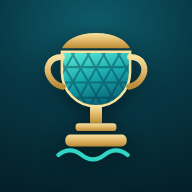
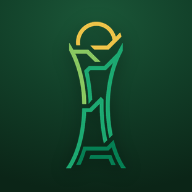
Adopt the official خليجي 27 identity and open predictions immediately
- Identity: the tournament's official trophy mark replaces the drawn
  emblem, and the palette moves to the official deep green + gold
  sampled from the federation's own artwork. New PWA icons, theme
  colour and manifest colours to match.
- Predictions now open as soon as the app is opened and lock at
  kick-off, instead of opening 24 hours before each match.
- Schedule corrected against the official draw graphic: match numbers
  1 and 2 swapped to the official order, semi-finals at 18:00 and
  20:30, and the venues renamed as the organisers write them.
- Best-goalkeeper picker now lists goalkeepers only (25 across the
  eight squads).

Claude-Session: https://claude.ai/code/session_011nCoPk4JwjprTMiBJzpuBJ

diff --git a/gulf27.html b/gulf27.html
@@ -8,7 +8,7 @@
 <meta http-equiv="Expires" content="0">
 <title>دوري توقّعات خليجي 27</title>
 <link rel="manifest" href="manifest-gulf.json">
-<meta name="theme-color" content="#0b7f8c">
+<meta name="theme-color" content="#0e2e1e">
 <meta name="apple-mobile-web-app-capable" content="yes">
 <meta name="mobile-web-app-capable" content="yes">
 <meta name="apple-mobile-web-app-status-bar-style" content="black-translucent">
@@ -26,17 +26,17 @@
 <script src="https://www.gstatic.com/firebasejs/9.23.0/firebase-auth-compat.js"></script>
 <style>
 :root{
-  --bg:#04212a; --surface:#083744; --card:#062e39;
-  --accent1:#0e7f8c; --accent2:#2fd6c6; --accent3:#064a56;
-  --gold:#0e7f8c; --text:#eafcfb; --muted:#86b6bd;
+  --bg:#0e2e1e; --surface:#17402f; --card:#123527;
+  --accent1:#1fa96b; --accent2:#5fe08a; --accent3:#0a2416;
+  --gold:#1fa96b; --text:#eaf7ee; --muted:#8fb79e;
   --line:rgba(255,255,255,.08);
 }
 *{margin:0;padding:0;box-sizing:border-box;-webkit-tap-highlight-color:transparent;}
 html{scroll-behavior:smooth;}
-*{scrollbar-width:thin;scrollbar-color:rgba(23,169,174,.55) transparent;}
+*{scrollbar-width:thin;scrollbar-color:rgba(31,169,107,.55) transparent;}
 ::-webkit-scrollbar{width:8px;height:8px;}
-::-webkit-scrollbar-thumb{background:rgba(23,169,174,.45);border-radius:10px;}
-::-webkit-scrollbar-thumb:hover{background:rgba(23,169,174,.75);}
+::-webkit-scrollbar-thumb{background:rgba(31,169,107,.45);border-radius:10px;}
+::-webkit-scrollbar-thumb:hover{background:rgba(31,169,107,.75);}
 ::-webkit-scrollbar-track{background:transparent;}
 body{font-family:'Tajawal',sans-serif;background:var(--bg);color:var(--text);min-height:100vh;display:flex;flex-direction:column;align-items:center;padding:18px 14px 90px;}
 .screen{display:none;width:100%;max-width:480px;flex-direction:column;align-items:center;gap:14px;}
@@ -45,7 +45,7 @@ body{font-family:'Tajawal',sans-serif;background:var(--bg);color:var(--text);min
 .cb-caa{height:54px;width:auto;}
 .cb-wc{height:64px;width:auto;}
 .cb-gulf{display:block;line-height:0;}
-.cb-gulf svg{height:92px;width:auto;display:block;}
+.cb-gulf img{height:96px;width:auto;display:block;}
 .cb-div{width:2px;height:46px;background:rgba(255,255,255,.28);border-radius:2px;}
 .tagline{font-size:.85rem;color:var(--muted);text-align:center;}
 .subtitle{font-size:1.5rem;font-weight:800;color:#fff;text-align:center;margin-top:16px;line-height:1.2;}
@@ -56,19 +56,19 @@ input.field:focus{border-color:var(--accent2);}
 input.field::placeholder{color:var(--muted);}
 .btn{width:100%;padding:14px;border-radius:13px;border:none;font-family:'Tajawal',sans-serif;font-size:1rem;font-weight:700;cursor:pointer;transition:opacity .2s,transform .1s;}
 .btn:active:not(:disabled){transform:scale(.97);opacity:.9;}
-.btn:disabled{background:#0c3d47!important;color:var(--muted)!important;cursor:default;}
-.btn-green{background:linear-gradient(135deg,#2fd6c6,#064a56);color:#ffffff;}
-.btn-gold{background:linear-gradient(135deg,#0e7f8c,#04333d);color:#ffffff;}
-.btn-grad{background:linear-gradient(135deg,#2fd6c6,#0e7f8c);color:#ffffff;}
+.btn:disabled{background:#123b2a!important;color:var(--muted)!important;cursor:default;}
+.btn-green{background:linear-gradient(135deg,#5fe08a,#0a2416);color:#ffffff;}
+.btn-gold{background:linear-gradient(135deg,#1fa96b,#071b11);color:#ffffff;}
+.btn-grad{background:linear-gradient(135deg,#5fe08a,#1fa96b);color:#ffffff;}
 .err{font-size:.82rem;color:#fca5a5;text-align:center;min-height:18px;}
 .install-btn{width:100%;display:none;background:rgba(255,255,255,.10);color:var(--text);border:1px solid var(--line);border-radius:13px;padding:12px;margin:10px 0;font-family:'Tajawal',sans-serif;font-weight:700;font-size:.95rem;cursor:pointer;}
 .install-btn:hover{background:rgba(255,255,255,.16);}
 
-.setup-banner{width:100%;background:rgba(23,169,174,.08);border:1px solid rgba(23,169,174,.3);border-radius:14px;padding:14px;font-size:.82rem;color:#c9eef2;line-height:1.7;display:none;}
+.setup-banner{width:100%;background:rgba(31,169,107,.08);border:1px solid rgba(31,169,107,.3);border-radius:14px;padding:14px;font-size:.82rem;color:#cceedd;line-height:1.7;display:none;}
 .setup-banner.show{display:block;}
 .setup-banner code{background:rgba(0,0,0,.3);padding:1px 6px;border-radius:6px;font-size:.78rem;}
 
-.tabbar{position:fixed;bottom:0;left:0;right:0;background:linear-gradient(180deg,#0a4653,#03181e);border-top:2px solid #d4af37;box-shadow:0 -10px 30px rgba(0,0,0,.55);display:flex;justify-content:center;gap:4px;padding:8px 10px calc(8px + env(safe-area-inset-bottom));z-index:50;}
+.tabbar{position:fixed;bottom:0;left:0;right:0;background:linear-gradient(180deg,#14472f,#071a10);border-top:2px solid #d4af37;box-shadow:0 -10px 30px rgba(0,0,0,.55);display:flex;justify-content:center;gap:4px;padding:8px 10px calc(8px + env(safe-area-inset-bottom));z-index:50;}
 .tab{flex:1;max-width:150px;background:none;border:none;color:rgba(255,255,255,.7);font-family:'Tajawal',sans-serif;font-size:.78rem;font-weight:700;cursor:pointer;padding:8px 4px;border-radius:12px;display:flex;flex-direction:column;align-items:center;gap:3px;}
 .tab .ico{font-size:1.2rem;}
 .tab.active{color:#fff;background:rgba(212,175,55,.28);}
@@ -87,10 +87,10 @@ input.field::placeholder{color:var(--muted);}
 .section-title{width:100%;font-size:1rem;font-weight:800;color:var(--text);}
 .hint{width:100%;font-size:.76rem;color:var(--muted);line-height:1.7;}
 
-.chips{width:100%;display:flex;flex-wrap:nowrap;gap:8px;overflow-x:auto;padding-bottom:8px;-webkit-overflow-scrolling:touch;scroll-snap-type:x proximity;scrollbar-width:thin;scrollbar-color:rgba(23,169,174,.5) transparent;}
+.chips{width:100%;display:flex;flex-wrap:nowrap;gap:8px;overflow-x:auto;padding-bottom:8px;-webkit-overflow-scrolling:touch;scroll-snap-type:x proximity;scrollbar-width:thin;scrollbar-color:rgba(31,169,107,.5) transparent;}
 .chips::-webkit-scrollbar{height:4px;}
-.chips::-webkit-scrollbar-thumb{background:rgba(23,169,174,.5);border-radius:10px;}
-.chips::-webkit-scrollbar-thumb:hover{background:rgba(23,169,174,.8);}
+.chips::-webkit-scrollbar-thumb{background:rgba(31,169,107,.5);border-radius:10px;}
+.chips::-webkit-scrollbar-thumb:hover{background:rgba(31,169,107,.8);}
 .chips::-webkit-scrollbar-track{background:transparent;}
 .chip{flex:0 0 auto;scroll-snap-align:center;background:var(--surface);border:1px solid var(--line);color:var(--muted);font-family:'Tajawal',sans-serif;font-size:.8rem;font-weight:700;padding:7px 14px;border-radius:20px;cursor:pointer;white-space:nowrap;transition:background .15s,border-color .15s,color .15s;}
 .chip.active{background:var(--accent1);border-color:var(--accent1);color:#fff;}
@@ -114,7 +114,7 @@ img.flag{display:inline-block;width:1.45em;height:.95em;vertical-align:-2px;bord
 .tour-save:disabled{opacity:.5;cursor:default;}
 .sub-tabs{display:flex;gap:6px;width:100%;background:rgba(255,255,255,.04);border:1px solid var(--line);border-radius:12px;padding:4px;margin-bottom:6px;}
 .sub-tab{flex:1;background:none;border:none;color:var(--muted);font-family:'Tajawal',sans-serif;font-weight:700;font-size:.9rem;padding:9px 8px;border-radius:9px;cursor:pointer;}
-.sub-tab.active{background:#17a9ae;color:#fff;}
+.sub-tab.active{background:#1fa96b;color:#fff;}
 .gr-card{background:var(--card);border:1px solid var(--line);border-radius:14px;padding:12px;display:flex;flex-direction:column;gap:8px;}
 .gr-card h4{margin:0;font-size:1rem;font-weight:800;letter-spacing:.4px;color:#fde68a;}
 .gr-tbl td.gr-team img.flag{width:27px;height:18px;object-fit:cover;margin-inline-end:6px;vertical-align:-3px;}
@@ -126,13 +126,13 @@ img.flag{display:inline-block;width:1.45em;height:.95em;vertical-align:-2px;bord
 .gr-tbl td.gr-team{text-align:right;}
 .gr-team{display:flex;align-items:center;gap:6px;font-weight:700;}
 .gr-flag{font-size:1.1rem;}
-.gr-tbl tr.gr-adv td:first-child{box-shadow:inset 3px 0 0 #17a9ae;}
+.gr-tbl tr.gr-adv td:first-child{box-shadow:inset 3px 0 0 #1fa96b;}
 .gr-tbl tr.gr-adv td{background:rgba(34,197,94,.08);}
 .gr-tbl tr.gr-out td:first-child{box-shadow:inset 3px 0 0 #6b7280;}
 .gr-tbl tr.gr-out td{background:rgba(107,114,128,.08);color:var(--muted);}
 .gr-legend{display:flex;gap:14px;font-size:.74rem;color:var(--muted);align-items:center;padding-top:4px;flex-wrap:wrap;}
 .gr-legend span{display:inline-block;width:10px;height:10px;border-radius:3px;margin-inline-end:5px;vertical-align:middle;}
-.gr-legend .lg-adv{background:#17a9ae;}
+.gr-legend .lg-adv{background:#1fa96b;}
 .gr-legend .lg-out{background:#6b7280;}
 .ko-sec{display:flex;flex-direction:column;gap:10px;}
 .ko-sh{font-size:.95rem;font-weight:800;color:#fde68a;padding:4px 2px;border-bottom:1px solid var(--line);}
@@ -142,7 +142,7 @@ img.flag{display:inline-block;width:1.45em;height:.95em;vertical-align:-2px;bord
 .ko-row{display:flex;align-items:stretch;gap:10px;}
 .ko-vs{flex-shrink:0;align-self:center;font-size:.95rem;font-weight:800;color:#fff;background:var(--surface);border:1px solid var(--line);border-radius:10px;padding:6px 10px;min-width:54px;text-align:center;}
 .ko-slot{flex:1;background:var(--surface);border:1px solid var(--line);border-radius:10px;padding:10px;display:flex;flex-direction:column;gap:8px;min-width:0;}
-.ko-slot.resolved{flex-direction:row;align-items:center;justify-content:center;gap:8px;font-weight:800;font-size:.95rem;border-color:rgba(23,169,174,.55);background:rgba(23,169,174,.10);}
+.ko-slot.resolved{flex-direction:row;align-items:center;justify-content:center;gap:8px;font-weight:800;font-size:.95rem;border-color:rgba(31,169,107,.55);background:rgba(31,169,107,.10);}
 .ko-slot.resolved .ko-team{color:#fff;}
 .ko-slot-lbl{font-size:.78rem;font-weight:800;color:#fde68a;text-align:center;}
 .ko-opts{display:flex;flex-wrap:wrap;gap:5px;justify-content:center;}
@@ -170,7 +170,7 @@ img.flag{display:inline-block;width:1.45em;height:.95em;vertical-align:-2px;bord
 .br-team.lose .nm,.br-team.lose .sc{color:var(--muted);}
 .br-team.tba .nm{color:var(--muted);font-weight:600;font-size:.72rem;}
 .br-team.tent .nm{color:#cfe6d4;}
-.br-team.tent .nm::after{content:" ✻";color:#86b6bd;font-size:.66rem;font-weight:600;}
+.br-team.tent .nm::after{content:" ✻";color:#8fb79e;font-size:.66rem;font-weight:600;}
 .br-team.tent img.flag{opacity:.72;}
 .br-third{margin-top:14px;padding:8px;border-radius:10px;background:rgba(255,255,255,.025);border:1px dashed var(--line);display:flex;flex-direction:column;gap:6px;}
 .br-third-h{font-size:.68rem;font-weight:800;color:var(--muted);text-align:center;letter-spacing:.5px;}
@@ -226,13 +226,13 @@ img.flag{display:inline-block;width:1.45em;height:.95em;vertical-align:-2px;bord
 .sc-team{font-size:.78rem;color:var(--muted);}
 .sc-goals{display:flex;align-items:center;gap:4px;font-weight:800;font-size:1.1rem;color:#fde68a;}
 .sc-goals span{font-size:.9rem;}
-.match.live{border-color:rgba(23,169,174,.6);background:rgba(23,169,174,.07);}
+.match.live{border-color:rgba(31,169,107,.6);background:rgba(31,169,107,.07);}
 .match.finished{opacity:.6;}
 .match-head{display:grid;grid-template-columns:1fr auto 1fr;align-items:center;font-size:.72rem;color:var(--muted);gap:8px;}
 .hc-l{justify-self:start;}
 .hc-c{justify-self:center;text-align:center;color:var(--muted);}
 .hc-r{justify-self:end;}
-.grp-badge{background:rgba(23,169,174,.28);color:#fff;border-radius:8px;padding:2px 9px;font-weight:700;white-space:nowrap;}
+.grp-badge{background:rgba(31,169,107,.28);color:#fff;border-radius:8px;padding:2px 9px;font-weight:700;white-space:nowrap;}
 .status-badge{font-weight:800;white-space:nowrap;font-size:.62rem;letter-spacing:.5px;padding:3px 9px;border-radius:8px;}
 .status-badge.open{background:rgba(255,255,255,.10);color:#fff;}
 .status-badge.live{background:var(--accent1);color:#fff;}
@@ -249,7 +249,7 @@ img.flag{display:inline-block;width:1.45em;height:.95em;vertical-align:-2px;bord
 .storycard .sc-head{display:flex;align-items:center;justify-content:space-between;}
 .storycard .sc-title{font-weight:800;color:#fde68a;font-size:1rem;}
 .storycard .sc-status{font-size:.74rem;font-weight:700;color:var(--muted);}
-.storycard .sc-status.ok{color:#17a9ae;}
+.storycard .sc-status.ok{color:#1fa96b;}
 .storycard .sc-status.bad{color:#fca5a5;}
 .storycard .sc-hint{background:var(--surface);border:1px solid var(--line);border-radius:12px;padding:12px;color:var(--text);font-size:.92rem;line-height:1.6;}
 .storycard .sc-hint .lbl{display:block;font-size:.72rem;font-weight:800;color:#fde68a;margin-bottom:6px;}
@@ -267,7 +267,7 @@ img.flag{display:inline-block;width:1.45em;height:.95em;vertical-align:-2px;bord
 .storycard .sc-result.lose{background:rgba(220,55,55,.12);border:1px solid rgba(220,55,55,.35);color:#fca5a5;}
 .storycard .sc-result.none{background:rgba(255,255,255,.06);border:1px solid var(--line);color:var(--muted);font-weight:700;}
 .storycard .sc-progress{width:100%;height:4px;background:rgba(255,255,255,.08);border-radius:4px;overflow:hidden;}
-.storycard .sc-progress .bar{height:100%;background:linear-gradient(90deg,#17a9ae,#fbbf24,#dc4545);transition:width .25s linear;}
+.storycard .sc-progress .bar{height:100%;background:linear-gradient(90deg,#1fa96b,#fbbf24,#dc4545);transition:width .25s linear;}
 .tscore{font-size:1.5rem;font-weight:900;color:#fff;min-width:1.2em;text-align:center;padding:0 4px;}
 .tscore-live{color:#ffb1b1;}
 .score-in{display:flex;align-items:center;gap:6px;}
@@ -289,7 +289,7 @@ img.flag{display:inline-block;width:1.45em;height:.95em;vertical-align:-2px;bord
 .your-pred b{color:var(--text);}
 .pts-badge{font-size:.82rem;font-weight:800;border-radius:10px;padding:4px 12px;text-align:center;width:fit-content;margin:0 auto;}
 .pts-hi{background:var(--accent1);color:#fff;}
-.pts-mid{background:rgba(23,169,174,.45);color:#fff;}
+.pts-mid{background:rgba(31,169,107,.45);color:#fff;}
 .pts-0{background:rgba(255,255,255,.06);color:var(--muted);}
 .save-pred{padding:10px;font-size:.9rem;}
 .pred-actions{display:flex;gap:8px;width:100%;}
@@ -326,8 +326,8 @@ img.flag{display:inline-block;width:1.45em;height:.95em;vertical-align:-2px;bord
 .admin-bar{width:100%;margin-bottom:6px;}
 .btn-clear-all{width:100%;padding:12px;border-radius:10px;border:1px solid #e11d48;background:rgba(225,29,72,.12);color:#fca5a5;font-family:'Tajawal',sans-serif;font-weight:700;font-size:.9rem;cursor:pointer;}
 .btn-clear-all:disabled{opacity:.45;cursor:default;border-color:var(--line);color:var(--muted);background:var(--surface);}
-.btn-summary{width:100%;padding:12px;border-radius:10px;border:1px solid var(--accent1);background:rgba(23,169,174,.30);color:#fff;font-family:'Tajawal',sans-serif;font-weight:700;font-size:.95rem;cursor:pointer;margin-bottom:8px;}
-.btn-summary:hover{background:rgba(23,169,174,.42);}
+.btn-summary{width:100%;padding:12px;border-radius:10px;border:1px solid var(--accent1);background:rgba(31,169,107,.30);color:#fff;font-family:'Tajawal',sans-serif;font-weight:700;font-size:.95rem;cursor:pointer;margin-bottom:8px;}
+.btn-summary:hover{background:rgba(31,169,107,.42);}
 .a-edit{color:#fff;}
 .a-del{color:#fca5a5;}
 
@@ -340,13 +340,13 @@ img.flag{display:inline-block;width:1.45em;height:.95em;vertical-align:-2px;bord
 .lb-name{flex:1;font-size:.95rem;font-weight:700;}
 .lb-sub{font-size:.72rem;color:var(--muted);font-weight:400;}
 .lb-pts{font-size:1.3rem;font-weight:800;color:#fff;}
-.lb-del{margin-inline-start:8px;background:rgba(23,169,174,.15);border:1px solid rgba(23,169,174,.4);color:#fff;border-radius:9px;padding:6px 9px;font-size:.85rem;cursor:pointer;flex-shrink:0;}
+.lb-del{margin-inline-start:8px;background:rgba(31,169,107,.15);border:1px solid rgba(31,169,107,.4);color:#fff;border-radius:9px;padding:6px 9px;font-size:.85rem;cursor:pointer;flex-shrink:0;}
 .lb-pts span{font-size:.68rem;color:var(--muted);font-weight:400;}
 .lb-picks{margin-top:4px;color:#cbd5e1;font-weight:600;}.lb-picks img.flag{width:1.35em;height:.9em;object-fit:cover;vertical-align:-2px;}
 .scen-card{background:var(--card);border:1px solid var(--line);border-radius:12px;padding:12px 14px;margin-bottom:8px;display:flex;flex-direction:column;gap:6px;}
 .scen-card.ok{border-color:rgba(253,230,138,.42);background:linear-gradient(150deg,rgba(253,230,138,.09),rgba(253,230,138,.02));}
 .scen-card.no{opacity:.75;}
-.scen-card.me{border-color:rgba(23,169,174,.65);box-shadow:0 0 0 1px rgba(23,169,174,.3);}
+.scen-card.me{border-color:rgba(31,169,107,.65);box-shadow:0 0 0 1px rgba(31,169,107,.3);}
 .scen-head{display:flex;justify-content:space-between;align-items:center;gap:8px;}
 .scen-name{font-size:1rem;font-weight:800;color:#fff;flex:1;}
 .scen-pts{font-size:.88rem;font-weight:900;color:#fde68a;white-space:nowrap;}
@@ -362,7 +362,7 @@ img.flag{display:inline-block;width:1.45em;height:.95em;vertical-align:-2px;bord
 
 .overlay{display:none;position:fixed;inset:0;background:rgba(0,0,0,.78);backdrop-filter:blur(5px);z-index:100;align-items:flex-end;justify-content:center;}
 .overlay.show{display:flex;}
-.modal{background:#062e39;border:1px solid var(--line);border-radius:22px 22px 0 0;padding:22px 18px calc(34px + env(safe-area-inset-bottom));width:100%;max-width:480px;animation:slideUp .3s ease;max-height:90vh;overflow-y:auto;}
+.modal{background:#123527;border:1px solid var(--line);border-radius:22px 22px 0 0;padding:22px 18px calc(34px + env(safe-area-inset-bottom));width:100%;max-width:480px;animation:slideUp .3s ease;max-height:90vh;overflow-y:auto;}
 @keyframes slideUp{from{transform:translateY(100%);opacity:0;}to{transform:translateY(0);opacity:1;}}
 .modal-head{display:flex;justify-content:space-between;align-items:center;margin-bottom:16px;}
 .modal-title{font-size:1rem;font-weight:700;}
@@ -373,7 +373,7 @@ img.flag{display:inline-block;width:1.45em;height:.95em;vertical-align:-2px;bord
 .modal-msg{font-size:.78rem;color:#fff;text-align:center;margin-top:12px;min-height:18px;}
 
 /* ===== USER PREDICTIONS MODAL (.up-*) ===== */
-.up-modal{background:#062e39;border:1px solid var(--line);border-radius:22px 22px 0 0;padding:0;width:100%;max-width:520px;animation:slideUp .3s ease;max-height:92vh;display:flex;flex-direction:column;overflow:hidden;}
+.up-modal{background:#123527;border:1px solid var(--line);border-radius:22px 22px 0 0;padding:0;width:100%;max-width:520px;animation:slideUp .3s ease;max-height:92vh;display:flex;flex-direction:column;overflow:hidden;}
 @media (max-width:480px){.up-modal{max-height:100vh;border-radius:0;}}
 .up-head{display:flex;justify-content:space-between;align-items:center;padding:18px 18px 12px;border-bottom:1px solid var(--line);flex-shrink:0;}
 .up-title{font-size:1.15rem;font-weight:800;color:#fff;flex:1;padding-inline-end:10px;line-height:1.25;}
@@ -410,7 +410,7 @@ img.flag{display:inline-block;width:1.45em;height:.95em;vertical-align:-2px;bord
 .up-pw{font-size:.74rem;color:#cbd5e1;font-weight:600;padding-top:2px;}
 .up-empty{color:var(--muted);font-size:.85rem;text-align:center;padding:30px 10px;}
 
-.toast{position:fixed;bottom:96px;left:50%;transform:translateX(-50%);background:#083744;border:1px solid rgba(46,169,106,.3);border-radius:12px;padding:11px 20px;font-size:.88rem;font-weight:600;opacity:0;transition:opacity .3s;z-index:200;white-space:nowrap;pointer-events:none;}
+.toast{position:fixed;bottom:96px;left:50%;transform:translateX(-50%);background:#17402f;border:1px solid rgba(46,169,106,.3);border-radius:12px;padding:11px 20px;font-size:.88rem;font-weight:600;opacity:0;transition:opacity .3s;z-index:200;white-space:nowrap;pointer-events:none;}
 .toast.show{opacity:1;}
 
 .rules{width:100%;background:var(--card);border:1px solid var(--line);border-radius:14px;padding:14px 16px;font-size:.82rem;line-height:1.9;color:var(--muted);}
@@ -421,7 +421,7 @@ img.flag{display:inline-block;width:1.45em;height:.95em;vertical-align:-2px;bord
 .ptable th:nth-child(1),.ptable td:nth-child(1){width:21%;}
 .ptable th:nth-child(2),.ptable td:nth-child(2){width:39.5%;}
 .ptable th:nth-child(3),.ptable td:nth-child(3){width:39.5%;}
-.ptable th{color:#fff;font-weight:700;background:rgba(23,169,174,.30);text-align:center;vertical-align:middle;}
+.ptable th{color:#fff;font-weight:700;background:rgba(31,169,107,.30);text-align:center;vertical-align:middle;}
 .ptable .pcell{font-weight:800;color:#fff;text-align:center;vertical-align:middle;white-space:nowrap;}
 .ptable td .ex{color:var(--muted);}
 .cobrand{display:flex;align-items:center;justify-content:center;gap:14px;width:fit-content;margin:0 auto;}
@@ -541,7 +541,7 @@ img.flag{display:inline-block;width:1.45em;height:.95em;vertical-align:-2px;bord
     <div class="cobrand">
       <img class="cb-saff" src="saff-white.png" alt="الاتحاد السعودي لكرة القدم">
       <span class="cb-div"></span>
-      <span class="cb-gulf" aria-label="خليجي 27"><svg viewBox="0 0 132 156" xmlns="http://www.w3.org/2000/svg" role="img" aria-label="خليجي 27">  <defs>    <linearGradient id="gcTeal" x1="0" y1="0" x2="0.35" y2="1">      <stop offset="0" stop-color="#5FEFDC"/><stop offset=".55" stop-color="#17A9AE"/><stop offset="1" stop-color="#0A6A7C"/>    </linearGradient>    <linearGradient id="gcGold" x1="0" y1="0" x2="0" y2="1">      <stop offset="0" stop-color="#F6E1A0"/><stop offset=".5" stop-color="#E0B667"/><stop offset="1" stop-color="#B98B36"/>    </linearGradient>    <path id="gcCup" d="M26 26 h80 v24 a40 40 0 0 1 -40 40 a40 40 0 0 1 -40 -40 z"/>    <clipPath id="gcClip"><use href="#gcCup"/></clipPath>  </defs>  <!-- روشان: قوس علوي -->  <path d="M66 4 C 44 4 30 13 26 22 h80 C 102 13 88 4 66 4 z" fill="url(#gcGold)"/>  <!-- كأس البطولة -->  <use href="#gcCup" fill="url(#gcTeal)"/>  <!-- زخرفة الروشان داخل الكأس -->  <g clip-path="url(#gcClip)" stroke="#063C48" stroke-width="2.4" stroke-linecap="round" opacity=".45" fill="none">    <path d="M14 26 L118 26 M14 44 L118 44 M14 62 L118 62 M14 80 L118 80"/>    <path d="M30 14 L78 98 M48 14 L96 98 M66 14 L114 98 M12 14 L60 98 M84 14 L132 98"/>    <path d="M102 14 L54 98 M84 14 L36 98 M66 14 L18 98 M120 14 L72 98 M48 14 L0 98"/>  </g>  <use href="#gcCup" fill="none" stroke="#F6E1A0" stroke-width="3"/>  <!-- المقبضان -->  <path d="M26 32 C 10 32 6 46 12 56 C 16 63 22 66 27 67" fill="none" stroke="url(#gcGold)" stroke-width="7" stroke-linecap="round"/>  <path d="M106 32 C 122 32 126 46 120 56 C 116 63 110 66 105 67" fill="none" stroke="url(#gcGold)" stroke-width="7" stroke-linecap="round"/>  <!-- الساق والقاعدة -->  <path d="M59 90 h14 v20 h-14 z" fill="url(#gcGold)"/>  <rect x="42" y="110" width="48" height="9" rx="4" fill="url(#gcGold)"/>  <rect x="30" y="123" width="72" height="14" rx="6" fill="url(#gcGold)"/>  <!-- موجة الخليج -->  <path d="M22 147 c 9 -7 18 -7 27 0 s 18 7 27 0 s 18 -7 27 0" fill="none" stroke="#2FD6C6" stroke-width="5" stroke-linecap="round"/></svg></span>
+      <span class="cb-gulf"><img src="gulf27-trophy.png" alt="خليجي 27"></span>
     </div>
     <div class="subtitle">دوري توقّعات خليجي 27<br><span style="font-size:.95rem;font-weight:700;color:var(--muted)">كأس الخليج العربي · جدة 2026</span></div>
   </div>
@@ -560,7 +560,7 @@ img.flag{display:inline-block;width:1.45em;height:.95em;vertical-align:-2px;bord
     <b>طريقة اللعب</b><br>
     🏆 ١٥ مباراة: ١٢ في دور المجموعات + نصف النهائي + النهائي<br>
     📊 توقعت النتيجة صح = <b>5 نقاط</b> · توقعت المنتخب الفائز/التعادل صح = <b>3 نقاط</b><br>
-    ⏰ التوقع يفتح قبل المباراة بـ24 ساعة ويقفل أول ما تبدأ<br>
+    ⏰ التوقّع مفتوح من الآن لكل المباريات، ويقفل مع صافرة البداية<br>
     📖 التفاصيل كاملة في صفحة القوانين داخل اللعبة
   </div>
 </div>
@@ -709,7 +709,7 @@ img.flag{display:inline-block;width:1.45em;height:.95em;vertical-align:-2px;bord
   <div class="rules">
     <b>📌 ملاحظات مهمة</b><br>
     • <b>بطاقات ×2:</b> عندك <b>بطاقتين</b> فقط في البطولة كاملة، فعّلها على المباراة قبل ما تبدأ <b>وبتتضاعف نقاطك</b> فيها<br>
-    • <b>التوقع يفتح قبل المباراة بـ24 ساعة</b>، وتقدر تغيّره زي ما تبغى لين تبدأ المباراة<br>
+    • <b>التوقّع مفتوح من الآن</b> لكل مباريات البطولة، وتقدر تغيّره زي ما تبغى لين تبدأ المباراة<br>
     • <b>لو تعادلتوا في الترتيب</b>، اللي توقع نتائج صح أكثر هو اللي يكون مركزه أعلى
   </div>
 </div>
@@ -814,7 +814,7 @@ img.flag{display:inline-block;width:1.45em;height:.95em;vertical-align:-2px;bord
 
 <script>
 // ===== OFFICIAL FIXTURE DATA (static, embedded) =====
-var SCHEDULE_DATA = {"groups":{"A":[{"name":"Saudi Arabia","flag":"🇸🇦"},{"name":"Iraq","flag":"🇮🇶"},{"name":"Kuwait","flag":"🇰🇼"},{"name":"Oman","flag":"🇴🇲"}],"B":[{"name":"Qatar","flag":"🇶🇦"},{"name":"United Arab Emirates","flag":"🇦🇪"},{"name":"Bahrain","flag":"🇧🇭"},{"name":"Yemen","flag":"🇾🇪"}]},"matches":[{"id":"m1","n":1,"stage":"group","group":"A","home":"Iraq","away":"Oman","hf":"🇮🇶","af":"🇴🇲","date":"2026-09-23","time":"17:30","venue":"استاد الأمير عبدالله الفيصل، جدة","utc":"2026-09-23T14:30:00Z"},{"id":"m2","n":2,"stage":"group","group":"A","home":"Saudi Arabia","away":"Kuwait","hf":"🇸🇦","af":"🇰🇼","date":"2026-09-23","time":"21:00","venue":"استاد الإنماء — مدينة الملك عبدالله الرياضية، جدة","utc":"2026-09-23T18:00:00Z"},{"id":"m3","n":3,"stage":"group","group":"B","home":"United Arab Emirates","away":"Yemen","hf":"🇦🇪","af":"🇾🇪","date":"2026-09-24","time":"18:55","venue":"استاد الإنماء — مدينة الملك عبدالله الرياضية، جدة","utc":"2026-09-24T15:55:00Z"},{"id":"m4","n":4,"stage":"group","group":"B","home":"Qatar","away":"Bahrain","hf":"🇶🇦","af":"🇧🇭","date":"2026-09-24","time":"21:00","venue":"استاد الأمير عبدالله الفيصل، جدة","utc":"2026-09-24T18:00:00Z"},{"id":"m5","n":5,"stage":"group","group":"A","home":"Iraq","away":"Kuwait","hf":"🇮🇶","af":"🇰🇼","date":"2026-09-26","time":"18:55","venue":"استاد الأمير عبدالله الفيصل، جدة","utc":"2026-09-26T15:55:00Z"},{"id":"m6","n":6,"stage":"group","group":"A","home":"Saudi Arabia","away":"Oman","hf":"🇸🇦","af":"🇴🇲","date":"2026-09-26","time":"21:00","venue":"استاد الإنماء — مدينة الملك عبدالله الرياضية، جدة","utc":"2026-09-26T18:00:00Z"},{"id":"m7","n":7,"stage":"group","group":"B","home":"Qatar","away":"Yemen","hf":"🇶🇦","af":"🇾🇪","date":"2026-09-27","time":"18:55","venue":"استاد الإنماء — مدينة الملك عبدالله الرياضية، جدة","utc":"2026-09-27T15:55:00Z"},{"id":"m8","n":8,"stage":"group","group":"B","home":"United Arab Emirates","away":"Bahrain","hf":"🇦🇪","af":"🇧🇭","date":"2026-09-27","time":"21:00","venue":"استاد الأمير عبدالله الفيصل، جدة","utc":"2026-09-27T18:00:00Z"},{"id":"m9","n":9,"stage":"group","group":"A","home":"Saudi Arabia","away":"Iraq","hf":"🇸🇦","af":"🇮🇶","date":"2026-09-29","time":"20:30","venue":"استاد الإنماء — مدينة الملك عبدالله الرياضية، جدة","utc":"2026-09-29T17:30:00Z"},{"id":"m10","n":10,"stage":"group","group":"A","home":"Kuwait","away":"Oman","hf":"🇰🇼","af":"🇴🇲","date":"2026-09-29","time":"20:30","venue":"استاد الأمير عبدالله الفيصل، جدة","utc":"2026-09-29T17:30:00Z"},{"id":"m11","n":11,"stage":"group","group":"B","home":"United Arab Emirates","away":"Qatar","hf":"🇦🇪","af":"🇶🇦","date":"2026-09-30","time":"20:30","venue":"استاد الإنماء — مدينة الملك عبدالله الرياضية، جدة","utc":"2026-09-30T17:30:00Z"},{"id":"m12","n":12,"stage":"group","group":"B","home":"Bahrain","away":"Yemen","hf":"🇧🇭","af":"🇾🇪","date":"2026-09-30","time":"20:30","venue":"استاد الأمير عبدالله الفيصل، جدة","utc":"2026-09-30T17:30:00Z"},{"id":"m13","n":13,"stage":"SF","group":"","home":"Winner Group A","away":"Runner-up Group B","hf":"","af":"","date":"2026-10-03","time":"18:55","venue":"يُحدَّد لاحقًا — جدة","utc":"2026-10-03T15:55:00Z"},{"id":"m14","n":14,"stage":"SF","group":"","home":"Winner Group B","away":"Runner-up Group A","hf":"","af":"","date":"2026-10-03","time":"21:00","venue":"يُحدَّد لاحقًا — جدة","utc":"2026-10-03T18:00:00Z"},{"id":"m15","n":15,"stage":"FINAL","group":"","home":"Winner Match 13","away":"Winner Match 14","hf":"","af":"","date":"2026-10-06","time":"21:00","venue":"استاد الإنماء — مدينة الملك عبدالله الرياضية، جدة","utc":"2026-10-06T18:00:00Z"}]};
+var SCHEDULE_DATA = {"groups":{"A":[{"name":"Saudi Arabia","flag":"🇸🇦"},{"name":"Iraq","flag":"🇮🇶"},{"name":"Kuwait","flag":"🇰🇼"},{"name":"Oman","flag":"🇴🇲"}],"B":[{"name":"Qatar","flag":"🇶🇦"},{"name":"United Arab Emirates","flag":"🇦🇪"},{"name":"Bahrain","flag":"🇧🇭"},{"name":"Yemen","flag":"🇾🇪"}]},"matches":[{"id":"m1","n":1,"stage":"group","group":"A","home":"Saudi Arabia","away":"Kuwait","hf":"🇸🇦","af":"🇰🇼","date":"2026-09-23","time":"21:00","venue":"استاد مدينة الملك عبدالله الرياضية","utc":"2026-09-23T18:00:00Z"},{"id":"m2","n":2,"stage":"group","group":"A","home":"Iraq","away":"Oman","hf":"🇮🇶","af":"🇴🇲","date":"2026-09-23","time":"17:30","venue":"استاد الأمير عبدالله الفيصل","utc":"2026-09-23T14:30:00Z"},{"id":"m3","n":3,"stage":"group","group":"B","home":"United Arab Emirates","away":"Yemen","hf":"🇦🇪","af":"🇾🇪","date":"2026-09-24","time":"18:55","venue":"استاد مدينة الملك عبدالله الرياضية","utc":"2026-09-24T15:55:00Z"},{"id":"m4","n":4,"stage":"group","group":"B","home":"Qatar","away":"Bahrain","hf":"🇶🇦","af":"🇧🇭","date":"2026-09-24","time":"21:00","venue":"استاد الأمير عبدالله الفيصل","utc":"2026-09-24T18:00:00Z"},{"id":"m5","n":5,"stage":"group","group":"A","home":"Iraq","away":"Kuwait","hf":"🇮🇶","af":"🇰🇼","date":"2026-09-26","time":"18:55","venue":"استاد الأمير عبدالله الفيصل","utc":"2026-09-26T15:55:00Z"},{"id":"m6","n":6,"stage":"group","group":"A","home":"Saudi Arabia","away":"Oman","hf":"🇸🇦","af":"🇴🇲","date":"2026-09-26","time":"21:00","venue":"استاد مدينة الملك عبدالله الرياضية","utc":"2026-09-26T18:00:00Z"},{"id":"m7","n":7,"stage":"group","group":"B","home":"Qatar","away":"Yemen","hf":"🇶🇦","af":"🇾🇪","date":"2026-09-27","time":"18:55","venue":"استاد مدينة الملك عبدالله الرياضية","utc":"2026-09-27T15:55:00Z"},{"id":"m8","n":8,"stage":"group","group":"B","home":"United Arab Emirates","away":"Bahrain","hf":"🇦🇪","af":"🇧🇭","date":"2026-09-27","time":"21:00","venue":"استاد الأمير عبدالله الفيصل","utc":"2026-09-27T18:00:00Z"},{"id":"m9","n":9,"stage":"group","group":"A","home":"Saudi Arabia","away":"Iraq","hf":"🇸🇦","af":"🇮🇶","date":"2026-09-29","time":"20:30","venue":"استاد مدينة الملك عبدالله الرياضية","utc":"2026-09-29T17:30:00Z"},{"id":"m10","n":10,"stage":"group","group":"A","home":"Kuwait","away":"Oman","hf":"🇰🇼","af":"🇴🇲","date":"2026-09-29","time":"20:30","venue":"استاد الأمير عبدالله الفيصل","utc":"2026-09-29T17:30:00Z"},{"id":"m11","n":11,"stage":"group","group":"B","home":"United Arab Emirates","away":"Qatar","hf":"🇦🇪","af":"🇶🇦","date":"2026-09-30","time":"20:30","venue":"استاد مدينة الملك عبدالله الرياضية","utc":"2026-09-30T17:30:00Z"},{"id":"m12","n":12,"stage":"group","group":"B","home":"Bahrain","away":"Yemen","hf":"🇧🇭","af":"🇾🇪","date":"2026-09-30","time":"20:30","venue":"استاد الأمير عبدالله الفيصل","utc":"2026-09-30T17:30:00Z"},{"id":"m13","n":13,"stage":"SF","group":"","home":"Winner Group A","away":"Runner-up Group B","hf":"","af":"","date":"2026-10-03","time":"18:00","venue":"يُحدَّد لاحقًا","utc":"2026-10-03T15:00:00Z"},{"id":"m14","n":14,"stage":"SF","group":"","home":"Winner Group B","away":"Runner-up Group A","hf":"","af":"","date":"2026-10-03","time":"20:30","venue":"يُحدَّد لاحقًا","utc":"2026-10-03T17:30:00Z"},{"id":"m15","n":15,"stage":"FINAL","group":"","home":"Winner Match 13","away":"Winner Match 14","hf":"","af":"","date":"2026-10-06","time":"21:00","venue":"استاد مدينة الملك عبدالله الرياضية","utc":"2026-10-06T18:00:00Z"}]};
 var GROUPS = SCHEDULE_DATA.groups;
 // خليجي 27: مجموعتان تُسمّيان "الأولى" و"الثانية" بدل A/B
 var GROUP_AR={A:'الأولى',B:'الثانية'}, GROUP_NUM={A:'١',B:'٢'};
@@ -1516,13 +1516,13 @@ function kickoffMs(m){var t=Date.parse(m.utc); return isNaN(t)?Infinity:t;}
 // effective result: admin override wins, otherwise the auto API result
 function result(m){return resultsData[m.id]||apiResults[m.id]||null;}
 function liveScore(m){return liveData[m.id]||apiLive[m.id]||null;}
-var OPEN_WINDOW = 24*60*60*1000; // التوقعات تفتح فقط قبل المباراة بـ24 ساعة
+// التوقّع مفتوح من الآن لكل المباريات، ويتقفل مع صافرة البداية.
+var OPEN_WINDOW = Infinity;
 function statusOf(m){
   if(result(m))return 'finished';
   var now=Date.now(), k=kickoffMs(m);
   if(now>=k)return 'locked';
-  if(now>=k-OPEN_WINDOW)return 'open';
-  return 'soon';
+  return 'open';   // OPEN_WINDOW = Infinity ⇒ مفتوح دائمًا قبل البداية
 }
 function pointsFor(pred,r){
   if(!pred||!r)return null;
@@ -1965,11 +1965,8 @@ function playerPicker(id, placeholder, current, onlyGK){
     q=(q||'').trim().toLowerCase();
     var starts=[],contains=[];
     q=searchKey(q);   // يتجاهل الهمزة والألف المقصورة والتاء المربوطة والمسافات
-    var pool=PLAYERS;
-    if(onlyGK){ // الحراس أولًا ثم بقية اللاعبين
-      pool=PLAYERS.filter(function(p){return p.p==='G';})
-           .concat(PLAYERS.filter(function(p){return p.p!=='G';}));
-    }
+    // خانة أفضل حارس تعرض حراس المرمى فقط
+    var pool=onlyGK?PLAYERS.filter(function(p){return p.p==='G';}):PLAYERS;
     for(var i=0;i<pool.length;i++){
       var p=pool[i];
       var nm=searchKey(p.n), tm=searchKey(arTeam(p.t)+' '+p.t);

diff --git a/sw.js b/sw.js
@@ -1,7 +1,7 @@
 // Minimal service worker for PWA installability + offline shell.
 // Caches static assets; never intercepts cross-origin requests
 // (so Firebase Realtime DB / Google Fonts work normally).
-var CACHE = 'wc2026-v19';
+var CACHE = 'wc2026-v21';
 var ASSETS = [
   './',
   './index.html',
@@ -16,6 +16,8 @@ var ASSETS = [
   './icon-saff-512.png',
   './icon-gulf-192.png',
   './icon-gulf-512.png',
+  './gulf27-trophy.png',
+  './gulf27-logo.png',
   './wc26.png',
   './saff-white.png',
   './logo-dark.png'
